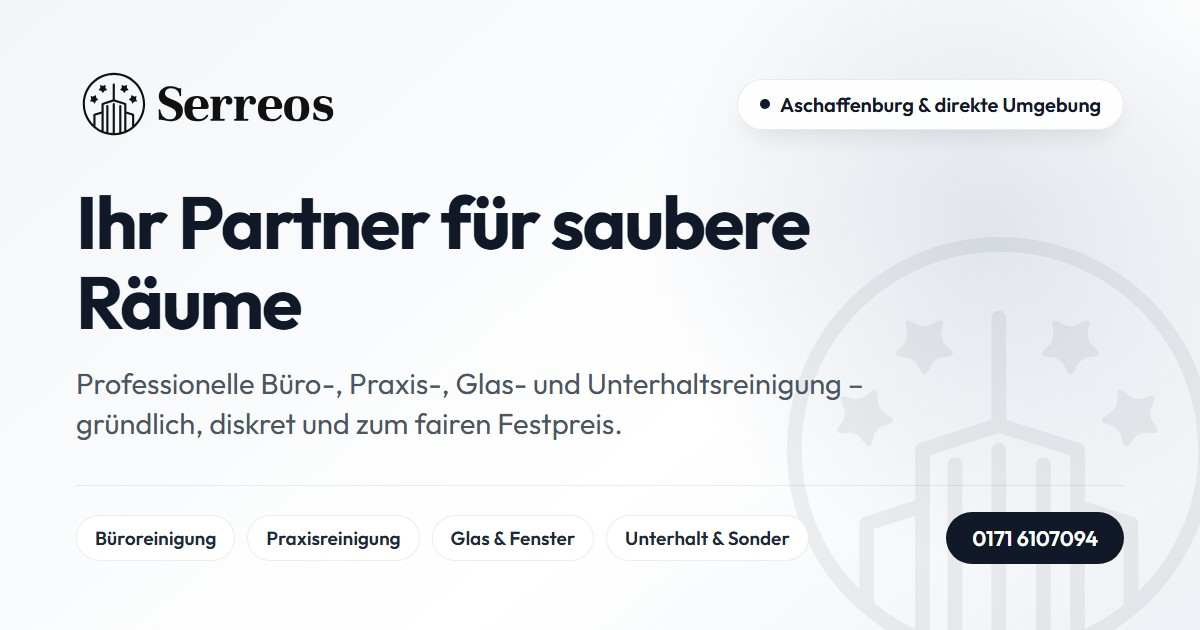
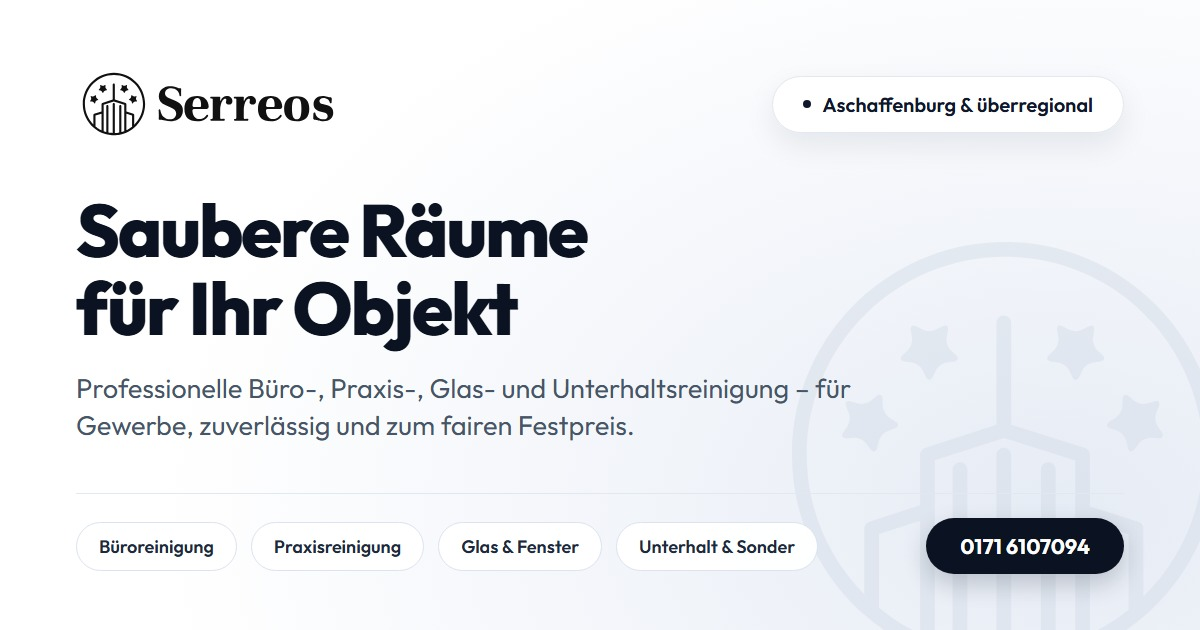
Refine B2B-only copy, remove ecological and conservatory claims, open service area beyond Aschaffenburg

diff --git a/index.html b/index.html
@@ -5,8 +5,8 @@
   <meta charset="UTF-8" />
   <meta name="viewport" content="width=device-width, initial-scale=1.0" />
   <meta name="theme-color" content="#f4f5f8" />
-  <title>Serreos Raumpflegeservice | Professionelle Reinigung in Aschaffenburg</title>
-  <meta name="description" content="Ihr zuverlässiger Partner für Büroreinigung, Praxisreinigung, Glasreinigung, Unterhaltsreinigung &amp; Grundreinigung in Aschaffenburg &amp; Umgebung." />
+  <title>Serreos Raumpflegeservice | Professionelle Gewerbereinigung</title>
+  <meta name="description" content="Inhabergeführter Raumpflegeservice für Büros, Praxen &amp; Gewerbe. Standort Aschaffenburg – wir prüfen jedes Angebot individuell, auch überregional." />
 
   <link rel="canonical" href="https://www.serreos-raumpflegeservice.de/" />
   <link rel="icon" href="/favicon.ico" sizes="48x48" />
@@ -17,14 +17,14 @@
   <link rel="apple-touch-icon" sizes="180x180" href="/assets/apple-touch-icon.png" />
 
   <!-- OpenGraph -->
-  <meta property="og:title" content="Serreos Raumpflegeservice | Professionelle Reinigung" />
-  <meta property="og:description" content="Zuverlässige Büro-, Praxis-, Glas- und Unterhaltsreinigung in Aschaffenburg &amp; Umgebung. Faire Festpreise &amp; umweltfreundliche Reinigung." />
+  <meta property="og:title" content="Serreos Raumpflegeservice | Gewerbliche Objekt- &amp; Büroreinigung" />
+  <meta property="og:description" content="Zuverlässige Büro-, Praxis-, Glas- und Unterhaltsreinigung für Gewerbeobjekte ab Aschaffenburg – wir prüfen jedes Angebot individuell." />
   <meta property="og:type" content="website" />
   <meta property="og:url" content="https://www.serreos-raumpflegeservice.de/" />
   <meta property="og:image" content="https://www.serreos-raumpflegeservice.de/assets/og-preview.jpg" />
   <meta property="og:image:width" content="1200" />
   <meta property="og:image:height" content="630" />
-  <meta property="og:image:alt" content="Serreos Raumpflegeservice – Ihr Partner für saubere Räume in Aschaffenburg &amp; Umgebung" />
+  <meta property="og:image:alt" content="Serreos Raumpflegeservice – Gewerbliche Raumpflege ab Aschaffenburg" />
   <meta name="twitter:card" content="summary_large_image" />
   <meta name="twitter:image" content="https://www.serreos-raumpflegeservice.de/assets/og-preview.jpg" />
 
@@ -47,7 +47,7 @@
       "postalCode": "63741",
       "addressCountry": "DE"
     },
-    "areaServed": ["Aschaffenburg", "Direkte Umgebung Aschaffenburg"],
+    "areaServed": ["Aschaffenburg", "Rhein-Main-Gebiet", "Deutschlandweit auf Anfrage"],
     "openingHours": "Mo-Sa 07:00-19:00"
   }
   </script>
@@ -116,7 +116,7 @@
           <div class="hr-opening-layer">
             <img
               src="assets/images/sofi/seq-1-dawn.webp?v=20261113-4k"
-              alt="Moderner Empfangsbereich im frühen Morgenlicht in Aschaffenburg"
+              alt="Moderner gewerblicher Empfangsbereich im frühen Morgenlicht"
               class="hr-opening-slide"
               loading="eager"
               fetchpriority="high"
@@ -131,7 +131,7 @@
             <use href="#serreos-crest"></use>
           </svg>
           <span class="hr-opening-wordmark">Serreos</span>
-          <span class="hr-opening-tag">Raumpflegeservice &middot; Aschaffenburg</span>
+          <span class="hr-opening-tag">Raumpflegeservice &middot; Gewerbe</span>
         </div>
 
         <a href="#heroStatement" class="hr-scroll-hint" aria-label="Weiter zu den Inhalten scrollen">
@@ -150,11 +150,11 @@
         <div class="hr-hero-center">
           <h1 class="hr-hero-h1 hr-reveal">
             <span class="hr-hero-line">Saubere Räume</span>
-            <span class="hr-hero-line">in Aschaffenburg.</span>
+            <span class="hr-hero-line">für Ihr Objekt.</span>
           </h1>
 
           <p class="hr-hero-lead hr-reveal">
-            Inhabergeführter Raumpflegeservice mit festen Reinigungsteams, geprüften Öko-Mitteln und transparenten Festpreisen für Büros, Praxen und Privathaushalte.
+            Inhabergeführter Raumpflegeservice für Büros, Praxen und Gewerbe – Standort Aschaffenburg, wir prüfen jedes Angebot individuell auch überregional.
           </p>
 
           <div class="hr-hero-ctas hr-reveal">
@@ -222,7 +222,7 @@
               <p>Gepflegte Schreibtische, Meetingräume, Teeküchen und Sanitäranlagen – planbar vor oder nach Geschäftsbeginn.</p>
               <div class="hr-service-chips">
                 <span>Feste Zeiten</span>
-                <span>Öko-Mittel</span>
+                <span>Inkl. Material</span>
               </div>
             </div>
           </article>
@@ -255,7 +255,7 @@
                 <h3>Glas- &amp; Fensterreinigung</h3>
                 <span class="hr-flip-arrow" aria-hidden="true">↗</span>
               </div>
-              <p>Streifenfreier Durchblick inklusive Rahmen- und Falzpflege für Schaufenster, Bürotrennwände und Wintergärten.</p>
+              <p>Streifenfreier Durchblick inklusive Rahmen- und Falzpflege für Schaufenster, Glasfassaden und Bürotrennwände.</p>
               <div class="hr-service-chips">
                 <span>Mit Rahmen</span>
                 <span>Streifenfrei</span>
@@ -291,7 +291,7 @@
                 <h3>Grundreinigung</h3>
                 <span class="hr-flip-arrow" aria-hidden="true">↗</span>
               </div>
-              <p>Gründliche Intensivreinigung bis in jede Ecke – ideal bei Einzug, nach Renovierung oder zum Saisonwechsel.</p>
+              <p>Gründliche Intensivreinigung bis in jede Ecke – ideal bei Objektübergabe, nach Renovierung oder zum Saisonwechsel.</p>
               <div class="hr-service-chips">
                 <span>Nach Umbau</span>
                 <span>Bodenpflege</span>
@@ -342,12 +342,12 @@
 
           <div class="hr-impact-value" id="hrImpactValue" aria-live="polite">24h</div>
           <div class="hr-impact-label" id="hrImpactLabel">Bis zum transparenten Festpreis-Angebot</div>
-          <p class="hr-impact-sub" id="hrImpactSub">Nach Ihrer kurzen Besichtigung vor Ort in Aschaffenburg erhalten Sie am nächsten Werktag alle Konditionen schriftlich.</p>
+          <p class="hr-impact-sub" id="hrImpactSub">Nach Besichtigung vor Ort oder Prüfung Ihrer Objektdaten erhalten Sie am nächsten Werktag alle Konditionen schriftlich.</p>
 
           <div class="hr-impact-tabs" role="tablist" aria-label="Kennzahlen auswählen">
             <button type="button" class="hr-impact-tab is-active" role="tab" aria-selected="true">Reaktionszeit</button>
             <button type="button" class="hr-impact-tab" role="tab" aria-selected="false">Besichtigung</button>
-            <button type="button" class="hr-impact-tab" role="tab" aria-selected="false">Qualität &amp; Öko</button>
+            <button type="button" class="hr-impact-tab" role="tab" aria-selected="false">Qualität &amp; Team</button>
             <button type="button" class="hr-impact-tab" role="tab" aria-selected="false">Fachbereiche</button>
           </div>
         </div>
@@ -380,7 +380,7 @@
           <article class="hr-arch-card" data-service="Büroreinigung">
             <img src="assets/images/buero.jpg" alt="Büro- &amp; Empfangsreinigung" loading="lazy" />
             <div class="hr-arch-overlay">
-              <span class="hr-arch-tag">Aschaffenburg</span>
+              <span class="hr-arch-tag">Büro &amp; Kanzlei</span>
               <h3>Moderne Büros &amp; Empfang</h3>
               <p>Klare Oberflächen, saubere Küchen und frische Luft direkt zu Arbeitsbeginn.</p>
               <span class="hr-arch-cta">Für Büro anfragen ↗</span>
@@ -467,7 +467,7 @@
           <div class="hr-step-card hr-reveal">
             <div class="hr-step-num">02</div>
             <h3>Kostenlose Besichtigung</h3>
-            <p>Inhaber Thomas Charistes schaut sich Ihre Räume in Aschaffenburg kostenlos an und erstellt binnen 24h Ihr Festpreis-Angebot.</p>
+            <p>Inhaber Thomas Charistes prüft Ihr Objekt persönlich – kostenlos vor Ort oder anhand Ihrer Angaben – und erstellt binnen 24h Ihr Angebot.</p>
           </div>
 
           <div class="hr-step-card hr-reveal">
@@ -501,7 +501,7 @@
                 <span>Direkter Draht · Serreos</span>
               </span>
               <h2>Lassen Sie uns Ihr Objekt anschauen</h2>
-              <p>Kurze Anfrage senden oder direkt anrufen – wir beraten ehrlich, direkt und ohne Callcenter.</p>
+              <p>Kurze Anfrage senden oder direkt anrufen – wir schauen uns jedes gewerbliche Objekt individuell an, direkt und ohne Callcenter.</p>
             </div>
 
             <div class="hr-contact-details">
@@ -556,7 +556,7 @@
                 <div class="hr-chips" data-chip-target="objektartInput">
                   <button type="button" class="hr-chip" data-value="Büro" aria-pressed="false">Büro</button>
                   <button type="button" class="hr-chip" data-value="Praxis" aria-pressed="false">Praxis</button>
-                  <button type="button" class="hr-chip" data-value="Privathaushalt" aria-pressed="false">Privathaushalt</button>
+                  <button type="button" class="hr-chip" data-value="Gewerbe / Ladenfläche" aria-pressed="false">Gewerbe</button>
                   <button type="button" class="hr-chip" data-value="Treppenhaus / Objekt" aria-pressed="false">Treppenhaus</button>
                 </div>
               </div>
@@ -570,7 +570,7 @@
               </div>
             </div>
 
-            <textarea name="nachricht" id="messageInput" rows="4" placeholder="Kurze Info (z. B. m², Wunschzeiten) – oder einfach oben antippen …" required></textarea>
+            <textarea name="nachricht" id="messageInput" rows="4" placeholder="Kurze Info (z. B. Ort, m², Wunschzeiten) – oder einfach oben antippen …" required></textarea>
 
             <div class="hr-privacy-row">
               <input type="checkbox" id="privacy" name="datenschutz" required />
@@ -605,19 +605,19 @@
             </button>
             <div class="hr-faq-panel">
               <div class="hr-faq-panel-inner">
-                <p>Wir arbeiten mit geprüften, schonenden Öko-Reinigungsmitteln – abgestimmt auf Ihre Oberflächen in Praxis, Büro oder Privathaushalt.</p>
+                <p>Ja. Wir bringen alle benötigten professionellen Reinigungsmittel und Materialien selbst mit – abgestimmt auf die Oberflächen in Büro, Praxis und Gewerbe.</p>
               </div>
             </div>
           </div>
 
           <div class="hr-faq-item">
             <button type="button" class="hr-faq-trigger" aria-expanded="false">
-              <span>Wie läuft die kostenlose Erstbesichtigung ab?</span>
+              <span>In welchem Gebiet arbeiten Sie &amp; wie läuft die Besichtigung ab?</span>
               <span class="hr-faq-plus" aria-hidden="true">+</span>
             </button>
             <div class="hr-faq-panel">
               <div class="hr-faq-panel-inner">
-                <p>Wir schauen uns Ihr Objekt unverbindlich vor Ort in Aschaffenburg oder Umgebung an und senden innerhalb von 24 Stunden Ihr Festpreis-Angebot.</p>
+                <p>Unser Standort ist Aschaffenburg, wir begrenzen uns jedoch bewusst nicht fest: Senden Sie uns einfach Ihre Anfrage – wir schauen uns jedes gewerbliche Objekt an und besichtigen nach Möglichkeit vor Ort.</p>
               </div>
             </div>
           </div>
@@ -662,7 +662,7 @@
           </div>
 
           <h2>Bereit für dauerhaft gepflegte Räume?</h2>
-          <p>Feste Ansprechpartner, umweltschonende Pflege und schnelle Umsetzung direkt vor Ort in Aschaffenburg.</p>
+          <p>Feste Ansprechpartner, professionelle Raumpflege für Gewerbe und individuelle Prüfung Ihres Angebots – ab Aschaffenburg und darüber hinaus.</p>
           <div class="hr-cta-actions">
             <a href="#contact" class="hr-btn-emerald">Jetzt Termin vereinbaren</a>
             <a href="tel:01716107094" class="hr-btn-outline-pill">
@@ -681,7 +681,7 @@
       <div class="hr-footer-top">
         <div class="hr-footer-brand">
           <img src="assets/White logo - no background.svg" alt="Serreos Raumpflegeservice Logo" />
-          <p>Inhabergeführter Raumpflegeservice in Aschaffenburg &amp; direkter Umgebung.</p>
+          <p>Inhabergeführter Raumpflegeservice für Gewerbe &amp; Objekte – Standort Aschaffenburg, offen für jede Anfrage.</p>
         </div>
         <div class="hr-footer-pills">
           <a href="tel:01716107094" class="hr-footer-pill">0171 6107094</a>
@@ -769,7 +769,7 @@
     <a href="#contact" class="mq-btn mq-offer">Angebot anfragen &rarr;</a>
   </div>
 
-  <script src="main.js?v=20261113-12"></script>
+  <script src="main.js?v=20261115-1"></script>
 </body>
 
 </html>

diff --git a/main.js b/main.js
@@ -239,28 +239,28 @@ document.addEventListener('DOMContentLoaded', () => {
       prefix: '',
       suffix: 'h',
       label: 'Bis zum transparenten Festpreis-Angebot',
-      sub: 'Nach Ihrer kurzen Besichtigung vor Ort in Aschaffenburg erhalten Sie am nächsten Werktag alle Konditionen schriftlich.'
+      sub: 'Nach Besichtigung vor Ort oder Prüfung Ihrer Objektdaten erhalten Sie am nächsten Werktag alle Konditionen schriftlich.'
     },
     {
       num: 0,
       prefix: '',
       suffix: ' €',
       label: 'Für Ihre unverbindliche Erstbesichtigung',
-      sub: 'Wir schauen uns Ihre Räumlichkeiten persönlich an und beraten ehrlich zu Turnus, Aufwand und ökologischen Mitteln.'
+      sub: 'Wir prüfen jede Anfrage individuell – ab Standort Aschaffenburg auch darüber hinaus – und beraten ehrlich zu Turnus und Aufwand.'
     },
     {
       num: 100,
       prefix: '',
       suffix: ' %',
-      label: 'Geprüfte Öko-Mittel & festes Reinigungsteam',
-      sub: 'Gleichbleibende Mitarbeiter statt ständigem Personalwechsel sowie biologisch abbaubare Pflege für empfindliche Flächen.'
+      label: 'Sorgfalt & festes Reinigungsteam',
+      sub: 'Gleichbleibende Mitarbeiter statt ständigem Personalwechsel sowie professionelle Markenprodukte für empfindliche Oberflächen.'
     },
     {
       num: 6,
       prefix: '',
       suffix: '',
       label: 'Spezialisierte Fachbereiche aus einer Hand',
-      sub: 'Von regelmäßiger Büro- & Praxisreinigung bis zu Glasfronten, Grundreinigung und flexiblen Sonderaufgaben.'
+      sub: 'Von regelmäßiger Büro- & Praxisreinigung bis zu Glasfronten, Grundreinigung und flexiblen Sonderaufgaben für Gewerbe.'
     }
   ];
 
